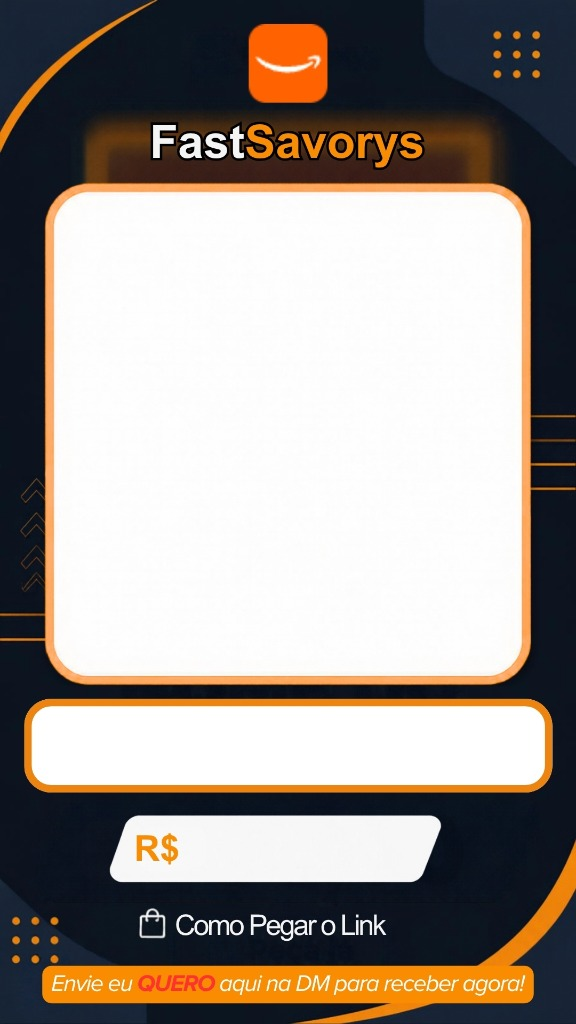
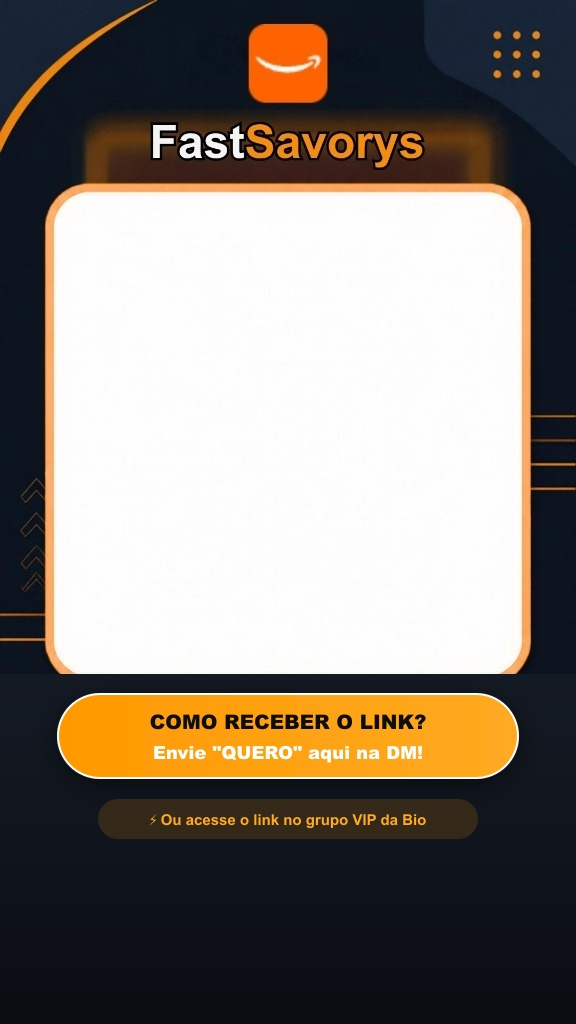
fix(instagram): use clean static 9:16 story templates to eliminate server font errors

Changed region(s): [[0.0, 0.6562, 1.0, 1.0]]

diff --git a/api/_lib/story-card-generator.js b/api/_lib/story-card-generator.js
@@ -1,7 +1,8 @@
 /**
- * FastSavory's - Gerador Dinâmico de Cards 9:16 para Instagram Stories
+ * FastSavory's - Gerador de Cards 9:16 para Instagram Stories
  * Transforma fotos quadradas (1:1) em Stories verticais (9:16 - 576x1024)
- * usando templates oficiais com molduras arredondadas, títulos e preços estilizados.
+ * usando templates oficiais com molduras arredondadas e CTAs fixos na zona segura,
+ * eliminando 100% o risco de falhas de fontes/textos do servidor.
  */
 
 const sharp = require('sharp');
@@ -15,9 +16,9 @@ const SUPABASE_KEY = process.env.SUPABASE_SERVICE_ROLE_KEY || process.env.SUPABA
 const supabaseAdmin = createClient(SUPABASE_URL, SUPABASE_KEY, { auth: { persistSession: false } });
 
 const TEMPLATE_FALLBACK_URLS = {
-  store: 'https://vqjyjdllapqbqpylshkw.supabase.co/storage/v1/object/public/fast-images/templates/story_template_store.jpg',
-  mercadolivre: 'https://vqjyjdllapqbqpylshkw.supabase.co/storage/v1/object/public/fast-images/templates/story_template_mercadolivre.jpg',
-  amazon: 'https://vqjyjdllapqbqpylshkw.supabase.co/storage/v1/object/public/fast-images/templates/story_template_amazon.jpg'
+  store: 'https://fastsavorys.vercel.app/assets/img/story_template_store.jpg',
+  mercadolivre: 'https://fastsavorys.vercel.app/assets/img/story_template_mercadolivre.jpg',
+  amazon: 'https://fastsavorys.vercel.app/assets/img/story_template_amazon.jpg'
 };
 
 function detectPlatform(url = '') {
@@ -26,36 +27,6 @@ function detectPlatform(url = '') {
     return 'amazon';
   }
   return 'mercadolivre';
-}
-
-function escapeXml(unsafe = '') {
-  return String(unsafe).replace(/[<>&'"]/g, c => {
-    switch (c) {
-      case '<': return '&lt;';
-      case '>': return '&gt;';
-      case '&': return '&amp;';
-      case '\'': return '&apos;';
-      case '"': return '&quot;';
-      default: return c;
-    }
-  });
-}
-
-function formatTitle(title, maxLen = 26) {
-  if (!title) return '';
-  const clean = String(title).trim().toUpperCase();
-  if (clean.length <= maxLen) return clean;
-  return clean.slice(0, maxLen - 1).trim() + '...';
-}
-
-function formatPriceDisplay(price) {
-  if (price === null || price === undefined) return '';
-  if (typeof price === 'number') {
-    return price.toFixed(2).replace('.', ',');
-  }
-  let s = String(price).trim();
-  s = s.replace(/R\$\s*/gi, '').trim();
-  return s;
 }
 
 async function loadTemplateBuffer(templateType) {
@@ -72,124 +43,49 @@ async function loadTemplateBuffer(templateType) {
     }
   }
 
-  // Fallback: Baixa do Supabase Storage
+  // Fallback via URL pública da Vercel
   const remoteUrl = TEMPLATE_FALLBACK_URLS[templateType] || TEMPLATE_FALLBACK_URLS.mercadolivre;
   console.log(`[Story Generator] Carregando template ${templateType} via fallback HTTP: ${remoteUrl}`);
   const resp = await fetch(remoteUrl);
   if (!resp.ok) {
-    throw new Error(`Falha ao baixar template ${templateType} remoto: ${resp.statusText}`);
+    throw new Error(`Falha ao carregar template ${templateType}: ${resp.statusText}`);
   }
   return Buffer.from(await resp.arrayBuffer());
 }
 
 /**
- * Gera o Story Card completo (9:16) e faz upload direto para o Supabase Storage
+ * Gera o Story Card 9:16 limpo e faz upload direto para o Supabase Storage
  * @param {Object} params
  * @param {'store'|'deal'} params.channel
  * @param {Object} [params.product] - Objeto do produto da loja
  * @param {Object} [params.deal] - Objeto do produto de achadinhos
- * @returns {Promise<string>} URL pública no Supabase Storage pronta para o Instagram
+ * @returns {Promise<string>} URL pública no Supabase Storage pronta para o Instagram Stories
  */
 async function generateStoryCard({ channel, product, deal }) {
-  console.log(`[Story Generator] Gerando card para canal: ${channel}...`);
+  console.log(`[Story Generator] Iniciando composição limpa 9:16 para canal: ${channel}...`);
 
   let templateType = 'store';
-  let rawTitle = '';
-  let rawPrice = '';
   let productImageUrl = '';
-  let fitMode = 'contain';
+  let fitMode = 'cover';
+  let frame;
 
   if (channel === 'store' || product) {
     templateType = 'store';
-    rawTitle = product?.name || 'FastSavory\'s';
-    rawPrice = formatPriceDisplay(product?.price);
     productImageUrl = product?.image || product?.image_url;
     fitMode = 'cover';
+    frame = { left: 63, top: 103, width: 450, height: 450, radius: 30 };
   } else {
     templateType = detectPlatform(deal?.affiliate_url);
-    rawTitle = deal?.title || 'Oferta Exclusiva';
-    rawPrice = formatPriceDisplay(deal?.price_display || deal?.price);
     productImageUrl = deal?.image_url;
     fitMode = 'contain';
+    frame = { left: 65, top: 204, width: 445, height: 455, radius: 32 };
   }
 
   if (!productImageUrl || !productImageUrl.startsWith('http')) {
     throw new Error(`URL de imagem do produto inválida para o story: "${productImageUrl}"`);
   }
 
-  // Configurações de layout por template
-  let frame;
-  let titleStyle;
-  let priceStyle;
-
-  if (templateType === 'store') {
-    frame = { left: 63, top: 103, width: 450, height: 450, radius: 30 };
-    titleStyle = {
-      x: 288,
-      y: 685,
-      fontSize: 26,
-      fill: '#1a1a1a',
-      fontWeight: 'bold',
-      textAnchor: 'middle'
-    };
-    priceStyle = {
-      x: 235,
-      y: 820,
-      fontSize: 44,
-      fill: '#ffffff',
-      shadowFill: '#4a1500',
-      shadowDx: 2,
-      shadowDy: 2,
-      fontWeight: '900',
-      textAnchor: 'start'
-    };
-  } else if (templateType === 'amazon') {
-    frame = { left: 65, top: 204, width: 445, height: 455, radius: 32 };
-    titleStyle = {
-      x: 288,
-      y: 728,
-      fontSize: 24,
-      fill: '#141419',
-      fontWeight: 'bold',
-      textAnchor: 'middle'
-    };
-    priceStyle = {
-      x: 185,
-      y: 858,
-      fontSize: 44,
-      fill: '#d66000',
-      shadowFill: null,
-      shadowDx: 0,
-      shadowDy: 0,
-      fontWeight: '900',
-      textAnchor: 'start'
-    };
-  } else {
-    // Mercado Livre (e padrão para outros achadinhos)
-    templateType = 'mercadolivre';
-    frame = { left: 65, top: 204, width: 445, height: 455, radius: 32 };
-    titleStyle = {
-      x: 288,
-      y: 728,
-      fontSize: 24,
-      fill: '#002882',
-      fontWeight: 'bold',
-      textAnchor: 'middle'
-    };
-    priceStyle = {
-      x: 235,
-      y: 852,
-      fontSize: 44,
-      fill: '#ffffff',
-      shadowFill: '#00195a',
-      shadowDx: 2,
-      shadowDy: 2,
-      fontWeight: '900',
-      textAnchor: 'start'
-    };
-  }
-
-  // 1. Carrega o template de fundo
+  // 1. Carrega o template de fundo oficial 9:16 (576 x 1024)
   const templateBuffer = await loadTemplateBuffer(templateType);
 
   // 2. Baixa a foto do produto
@@ -201,14 +97,13 @@ async function generateStoryCard({ channel, product, deal }) {
   }
   const prodRawBuffer = Buffer.from(await imgResp.arrayBuffer());
 
-  // 3. Cria máscara com cantos arredondados
+  // 3. Aplica máscara com cantos arredondados na foto do produto
   const maskSvg = Buffer.from(`
     <svg width="${frame.width}" height="${frame.height}">
       <rect x="0" y="0" width="${frame.width}" height="${frame.height}" rx="${frame.radius}" ry="${frame.radius}" fill="#fff"/>
     </svg>
   `);
 
-  // Redimensiona mantendo proporção e aplica máscara
   const resizeOptions = {
     fit: fitMode,
     background: { r: 255, g: 255, b: 255, alpha: 1 }
@@ -220,38 +115,15 @@ async function generateStoryCard({ channel, product, deal }) {
     .png()
     .toBuffer();
 
-  // 4. Monta SVG de texto
-  const safeTitle = escapeXml(formatTitle(rawTitle, 26));
-  const safePrice = escapeXml(rawPrice);
-
-  let shadowSvg = '';
-  if (priceStyle.shadowFill && safePrice) {
-    shadowSvg = `<text x="${priceStyle.x + priceStyle.shadowDx}" y="${priceStyle.y + priceStyle.shadowDy}" font-family="Arial, Helvetica, sans-serif" font-weight="${priceStyle.fontWeight}" font-size="${priceStyle.fontSize}px" fill="${priceStyle.shadowFill}" text-anchor="${priceStyle.textAnchor}">${safePrice}</text>`;
-  }
-
-  let priceSvg = '';
-  if (safePrice) {
-    priceSvg = `<text x="${priceStyle.x}" y="${priceStyle.y}" font-family="Arial, Helvetica, sans-serif" font-weight="${priceStyle.fontWeight}" font-size="${priceStyle.fontSize}px" fill="${priceStyle.fill}" text-anchor="${priceStyle.textAnchor}">${safePrice}</text>`;
-  }
-
-  const textSvg = Buffer.from(`
-    <svg width="576" height="1024" xmlns="http://www.w3.org/2000/svg">
-      <text x="${titleStyle.x}" y="${titleStyle.y}" font-family="Arial, Helvetica, sans-serif" font-weight="${titleStyle.fontWeight}" font-size="${titleStyle.fontSize}px" fill="${titleStyle.fill}" text-anchor="${titleStyle.textAnchor}">${safeTitle}</text>
-      ${shadowSvg}
-      ${priceSvg}
-    </svg>
-  `);
-
-  // 5. Compõe imagem final em 9:16 (576x1024)
+  // 4. Compõe a foto na moldura central do template
   const compositeBuffer = await sharp(templateBuffer)
     .composite([
-      { input: roundedProductBuffer, top: frame.top, left: frame.left },
-      { input: textSvg, top: 0, left: 0 }
+      { input: roundedProductBuffer, top: frame.top, left: frame.left }
     ])
-    .jpeg({ quality: 94 })
+    .jpeg({ quality: 95 })
     .toBuffer();
 
-  // 6. Upload para Supabase Storage (bucket fast-images)
+  // 5. Upload seguro para o Supabase Storage (bucket fast-images)
   const fileName = `stories/story_${Date.now()}_${Math.random().toString(36).slice(2, 7)}.jpg`;
   const { data: uploadData, error: uploadError } = await supabaseAdmin.storage
     .from('fast-images')
@@ -270,7 +142,7 @@ async function generateStoryCard({ channel, product, deal }) {
     .getPublicUrl(fileName);
 
   const publicUrl = urlData.publicUrl;
-  console.log(`[Story Generator] ✅ Card de Story gerado e salvo: ${publicUrl}`);
+  console.log(`[Story Generator] ✅ Card 9:16 limpo gerado e salvo com sucesso: ${publicUrl}`);
   return publicUrl;
 }
 
